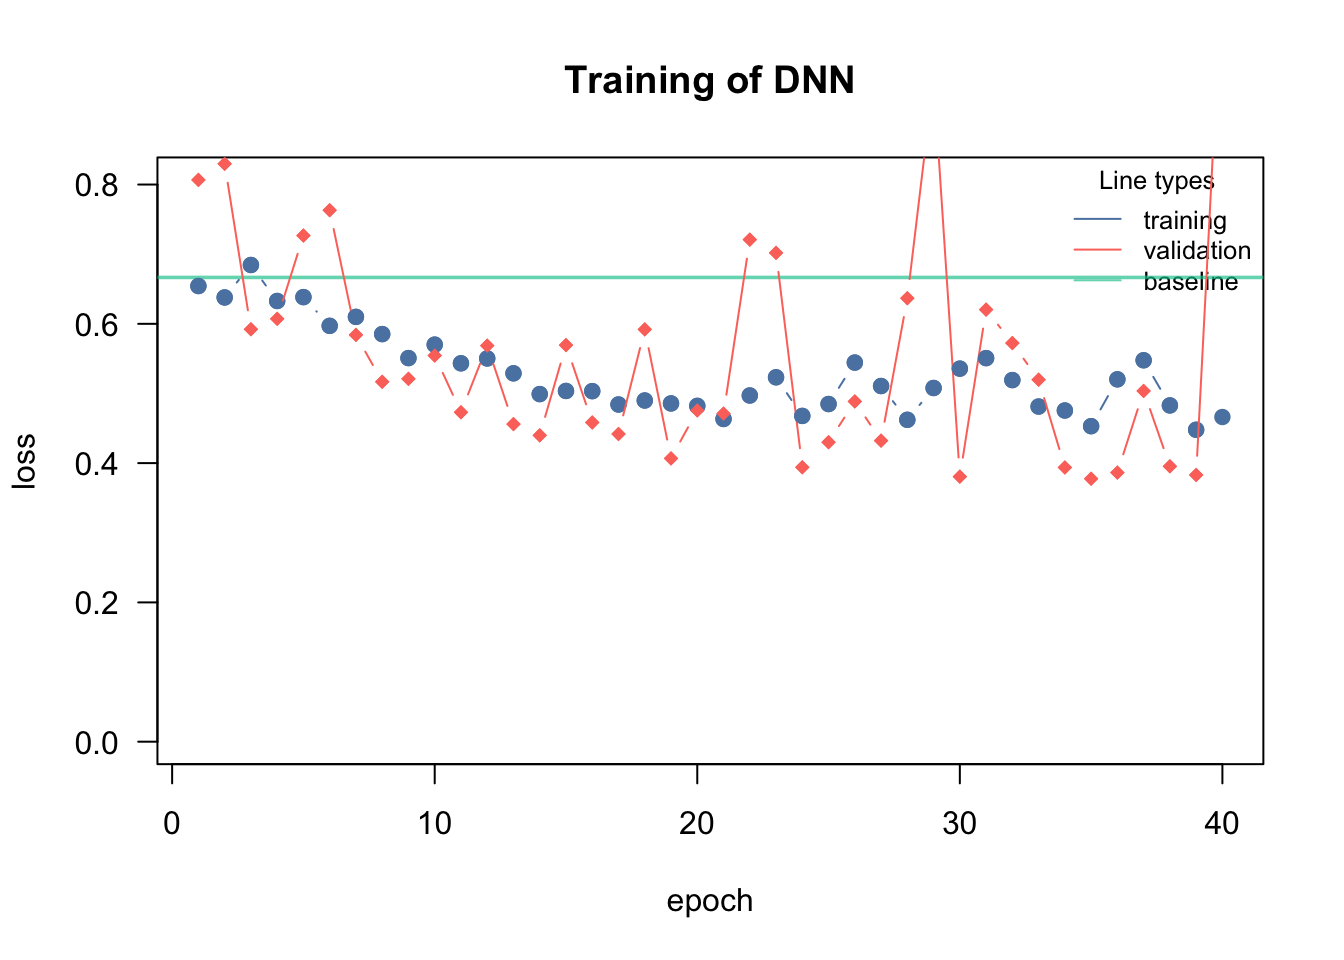
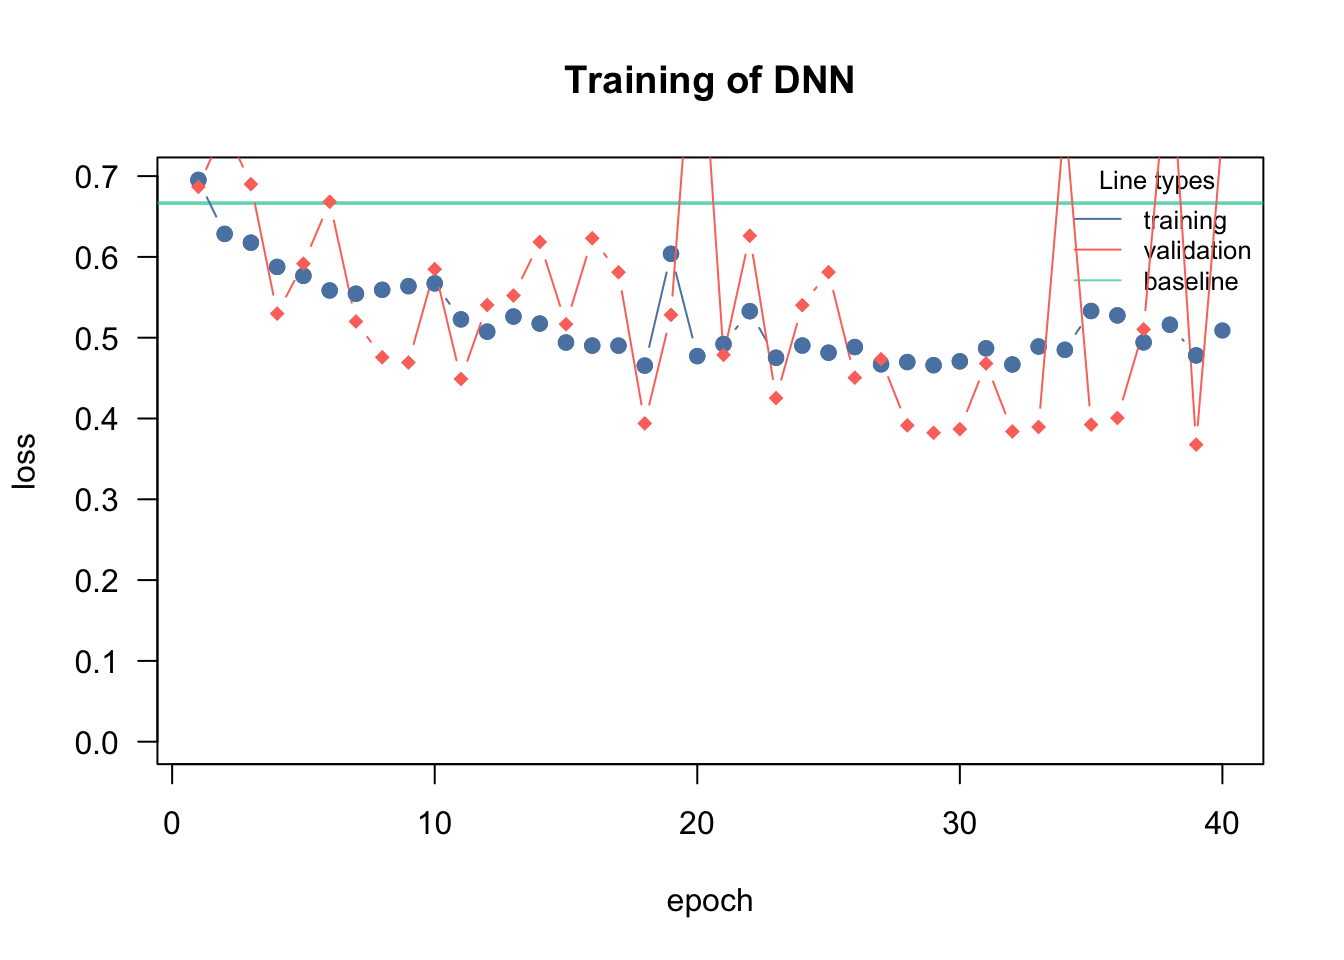
update pipeline exercise

diff --git a/docs/A4-MLpipeline.html b/docs/A4-MLpipeline.html
@@ -837,16 +837,16 @@ Fitting final model...</code></pre>
 <pre><code># A tibble: 10 × 5
    steps  test train models      lr
    &lt;int&gt; &lt;dbl&gt; &lt;dbl&gt; &lt;lgl&gt;    &lt;dbl&gt;
- 1     1  321.     0 NA     0.0394 
- 2     2  311.     0 NA     0.0623 
- 3     3  312.     0 NA     0.0627 
- 4     4  332.     0 NA     0.0804 
- 5     5  330.     0 NA     0.0658 
- 6     6  316.     0 NA     0.0683 
- 7     7  318.     0 NA     0.0417 
- 8     8  324.     0 NA     0.0667 
- 9     9  345.     0 NA     0.00368
-10    10  318.     0 NA     0.0818 </code></pre>
+ 1     1  323.     0 NA     0.0394 
+ 2     2  332.     0 NA     0.0623 
+ 3     3  317.     0 NA     0.0627 
+ 4     4  322.     0 NA     0.0804 
+ 5     5  322.     0 NA     0.0658 
+ 6     6  322.     0 NA     0.0683 
+ 7     7  321.     0 NA     0.0417 
+ 8     8  325.     0 NA     0.0667 
+ 9     9  347.     0 NA     0.00368
+10    10  315.     0 NA     0.0818 </code></pre>
 </div>
 </div>
 <!-- ```{r} -->
@@ -1344,9 +1344,9 @@ Question: Hyperparameter tuning - Titanic dataset
 <p><strong>Hints</strong></p>
 <p>cito has a feature to automatically tune hyperparameters under Cross Validation!</p>
 <ul>
-<li>if you pass the function <code>tune(...)</code> to a hyperparameter, this hyperparameter will be automatically tuned</li>
-<li>in the <code>tuning = config_tuning(...)</code> argument, you can specify the cross-validation strategy and the number of hyperparameters that shoudl be tested</li>
-<li>after the tuning, cito will fit automatically a model with the best hyperparameters on the full data and will return this model</li>
+<li>passing <code>tune(...)</code> to a hyperparameter will tell cito to tune this specific hyperparameter</li>
+<li>the <code>tuning = config_tuning(...)</code> let you specify the cross-validation strategy and the number of hyperparameters that should be tested (steps = number of hyperparameter combinations that should be tried)</li>
+<li>after tuning, cito will fit automatically a model with the best hyperparameters on the full data and will return this model</li>
 </ul>
 <p>Minimal example with the iris dataset:</p>
 <div class="cell">
@@ -1398,51 +1398,51 @@ Question: Hyperparameter tuning - Titanic dataset
 <span id="cb70-28"><a href="#cb70-28" aria-hidden="true" tabindex="-1"></a>          <span class="at">lr_scheduler =</span> <span class="fu">config_lr_scheduler</span>(<span class="st">"reduce_on_plateau"</span>, <span class="at">patience =</span> <span class="dv">10</span>, <span class="at">factor =</span> <span class="fl">0.9</span>),</span>
 <span id="cb70-29"><a href="#cb70-29" aria-hidden="true" tabindex="-1"></a>          <span class="at">data =</span> data_obs, <span class="at">epochs =</span> 40L, <span class="at">verbose =</span> <span class="cn">TRUE</span>, <span class="at">plot=</span> <span class="cn">TRUE</span>)</span></code><button title="Copy to Clipboard" class="code-copy-button"><i class="bi"></i></button></pre></div>
 <div class="cell-output cell-output-stdout">
-<pre><code>Loss at epoch 1: training: 0.654, validation: 0.807, lr: 0.05000</code></pre>
+<pre><code>Loss at epoch 1: training: 0.695, validation: 0.687, lr: 0.05000</code></pre>
 </div>
 <div class="cell-output-display">
 <p><img src="A4-MLpipeline_files/figure-html/unnamed-chunk-11-1.png" class="img-fluid" width="672"></p>
 </div>
 <div class="cell-output cell-output-stdout">
-<pre><code>Loss at epoch 2: training: 0.638, validation: 0.830, lr: 0.05000
-Loss at epoch 3: training: 0.684, validation: 0.592, lr: 0.05000
-Loss at epoch 4: training: 0.633, validation: 0.607, lr: 0.05000
-Loss at epoch 5: training: 0.638, validation: 0.727, lr: 0.05000
-Loss at epoch 6: training: 0.597, validation: 0.763, lr: 0.05000
-Loss at epoch 7: training: 0.610, validation: 0.584, lr: 0.05000
-Loss at epoch 8: training: 0.585, validation: 0.517, lr: 0.05000
-Loss at epoch 9: training: 0.551, validation: 0.521, lr: 0.05000
-Loss at epoch 10: training: 0.570, validation: 0.555, lr: 0.05000
-Loss at epoch 11: training: 0.543, validation: 0.473, lr: 0.05000
-Loss at epoch 12: training: 0.550, validation: 0.569, lr: 0.05000
-Loss at epoch 13: training: 0.529, validation: 0.456, lr: 0.05000
-Loss at epoch 14: training: 0.499, validation: 0.440, lr: 0.05000
-Loss at epoch 15: training: 0.504, validation: 0.569, lr: 0.05000
-Loss at epoch 16: training: 0.503, validation: 0.458, lr: 0.05000
-Loss at epoch 17: training: 0.484, validation: 0.442, lr: 0.05000
-Loss at epoch 18: training: 0.490, validation: 0.592, lr: 0.05000
-Loss at epoch 19: training: 0.486, validation: 0.407, lr: 0.05000
-Loss at epoch 20: training: 0.482, validation: 0.476, lr: 0.05000
-Loss at epoch 21: training: 0.463, validation: 0.471, lr: 0.05000
-Loss at epoch 22: training: 0.497, validation: 0.721, lr: 0.05000
-Loss at epoch 23: training: 0.523, validation: 0.702, lr: 0.05000
-Loss at epoch 24: training: 0.468, validation: 0.394, lr: 0.05000
-Loss at epoch 25: training: 0.485, validation: 0.430, lr: 0.05000
-Loss at epoch 26: training: 0.544, validation: 0.489, lr: 0.05000
-Loss at epoch 27: training: 0.511, validation: 0.432, lr: 0.05000
-Loss at epoch 28: training: 0.462, validation: 0.637, lr: 0.05000
-Loss at epoch 29: training: 0.508, validation: 0.951, lr: 0.05000
-Loss at epoch 30: training: 0.536, validation: 0.381, lr: 0.05000
-Loss at epoch 31: training: 0.551, validation: 0.620, lr: 0.05000
-Loss at epoch 32: training: 0.519, validation: 0.572, lr: 0.05000
-Loss at epoch 33: training: 0.481, validation: 0.520, lr: 0.05000
-Loss at epoch 34: training: 0.476, validation: 0.394, lr: 0.05000
-Loss at epoch 35: training: 0.453, validation: 0.378, lr: 0.05000
-Loss at epoch 36: training: 0.520, validation: 0.386, lr: 0.05000
-Loss at epoch 37: training: 0.548, validation: 0.504, lr: 0.05000
-Loss at epoch 38: training: 0.483, validation: 0.395, lr: 0.05000
-Loss at epoch 39: training: 0.448, validation: 0.383, lr: 0.05000
-Loss at epoch 40: training: 0.466, validation: 1.106, lr: 0.05000</code></pre>
+<pre><code>Loss at epoch 2: training: 0.629, validation: 0.761, lr: 0.05000
+Loss at epoch 3: training: 0.618, validation: 0.690, lr: 0.05000
+Loss at epoch 4: training: 0.588, validation: 0.530, lr: 0.05000
+Loss at epoch 5: training: 0.577, validation: 0.592, lr: 0.05000
+Loss at epoch 6: training: 0.558, validation: 0.668, lr: 0.05000
+Loss at epoch 7: training: 0.554, validation: 0.520, lr: 0.05000
+Loss at epoch 8: training: 0.559, validation: 0.476, lr: 0.05000
+Loss at epoch 9: training: 0.564, validation: 0.469, lr: 0.05000
+Loss at epoch 10: training: 0.567, validation: 0.585, lr: 0.05000
+Loss at epoch 11: training: 0.523, validation: 0.449, lr: 0.05000
+Loss at epoch 12: training: 0.507, validation: 0.540, lr: 0.05000
+Loss at epoch 13: training: 0.526, validation: 0.552, lr: 0.05000
+Loss at epoch 14: training: 0.518, validation: 0.618, lr: 0.05000
+Loss at epoch 15: training: 0.494, validation: 0.517, lr: 0.05000
+Loss at epoch 16: training: 0.490, validation: 0.623, lr: 0.05000
+Loss at epoch 17: training: 0.490, validation: 0.581, lr: 0.05000
+Loss at epoch 18: training: 0.465, validation: 0.394, lr: 0.05000
+Loss at epoch 19: training: 0.604, validation: 0.528, lr: 0.05000
+Loss at epoch 20: training: 0.477, validation: 0.960, lr: 0.05000
+Loss at epoch 21: training: 0.492, validation: 0.479, lr: 0.05000
+Loss at epoch 22: training: 0.533, validation: 0.626, lr: 0.05000
+Loss at epoch 23: training: 0.475, validation: 0.425, lr: 0.05000
+Loss at epoch 24: training: 0.490, validation: 0.540, lr: 0.05000
+Loss at epoch 25: training: 0.481, validation: 0.581, lr: 0.05000
+Loss at epoch 26: training: 0.488, validation: 0.451, lr: 0.05000
+Loss at epoch 27: training: 0.467, validation: 0.473, lr: 0.05000
+Loss at epoch 28: training: 0.470, validation: 0.391, lr: 0.05000
+Loss at epoch 29: training: 0.466, validation: 0.382, lr: 0.05000
+Loss at epoch 30: training: 0.471, validation: 0.387, lr: 0.05000
+Loss at epoch 31: training: 0.487, validation: 0.468, lr: 0.05000
+Loss at epoch 32: training: 0.467, validation: 0.384, lr: 0.05000
+Loss at epoch 33: training: 0.489, validation: 0.389, lr: 0.05000
+Loss at epoch 34: training: 0.485, validation: 0.774, lr: 0.05000
+Loss at epoch 35: training: 0.533, validation: 0.392, lr: 0.05000
+Loss at epoch 36: training: 0.528, validation: 0.401, lr: 0.05000
+Loss at epoch 37: training: 0.494, validation: 0.510, lr: 0.05000
+Loss at epoch 38: training: 0.516, validation: 0.871, lr: 0.05000
+Loss at epoch 39: training: 0.478, validation: 0.368, lr: 0.05000
+Loss at epoch 40: training: 0.509, validation: 0.756, lr: 0.05000</code></pre>
 </div>
 <div class="sourceCode cell-code" id="cb73"><pre class="sourceCode r code-with-copy"><code class="sourceCode r"><span id="cb73-1"><a href="#cb73-1" aria-hidden="true" tabindex="-1"></a><span class="co"># Predictions:</span></span>
 <span id="cb73-2"><a href="#cb73-2" aria-hidden="true" tabindex="-1"></a></span>
